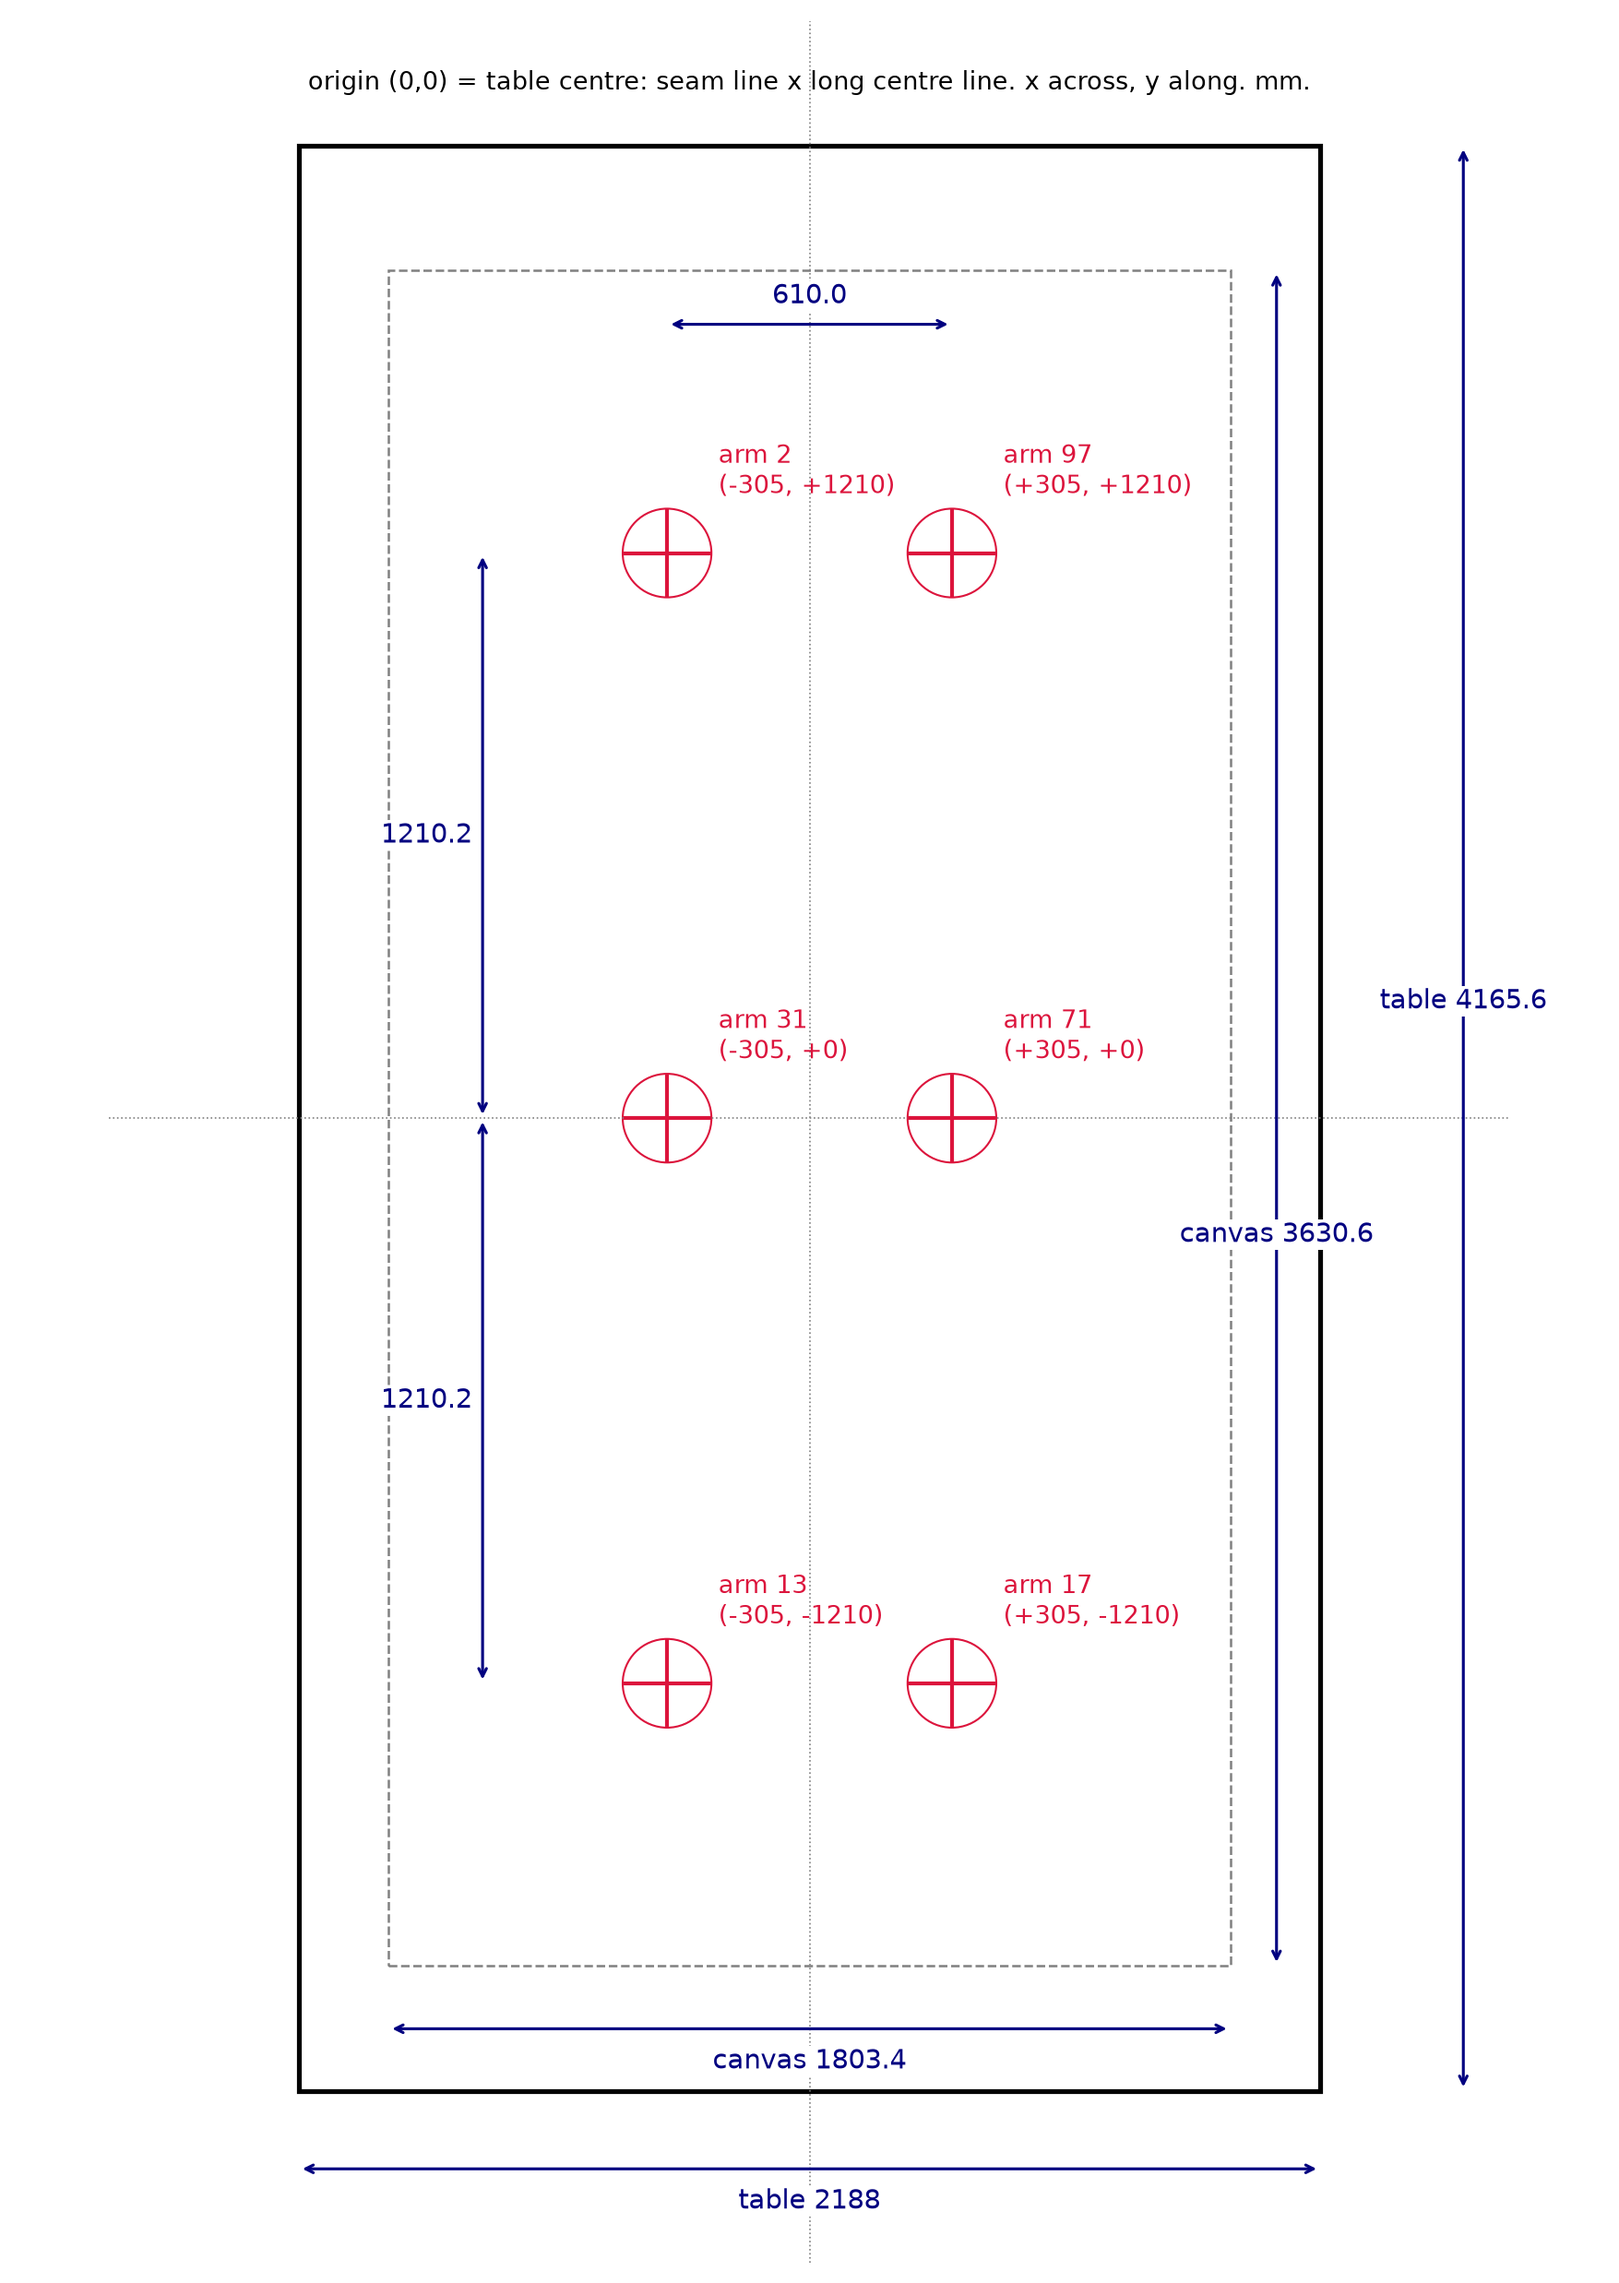
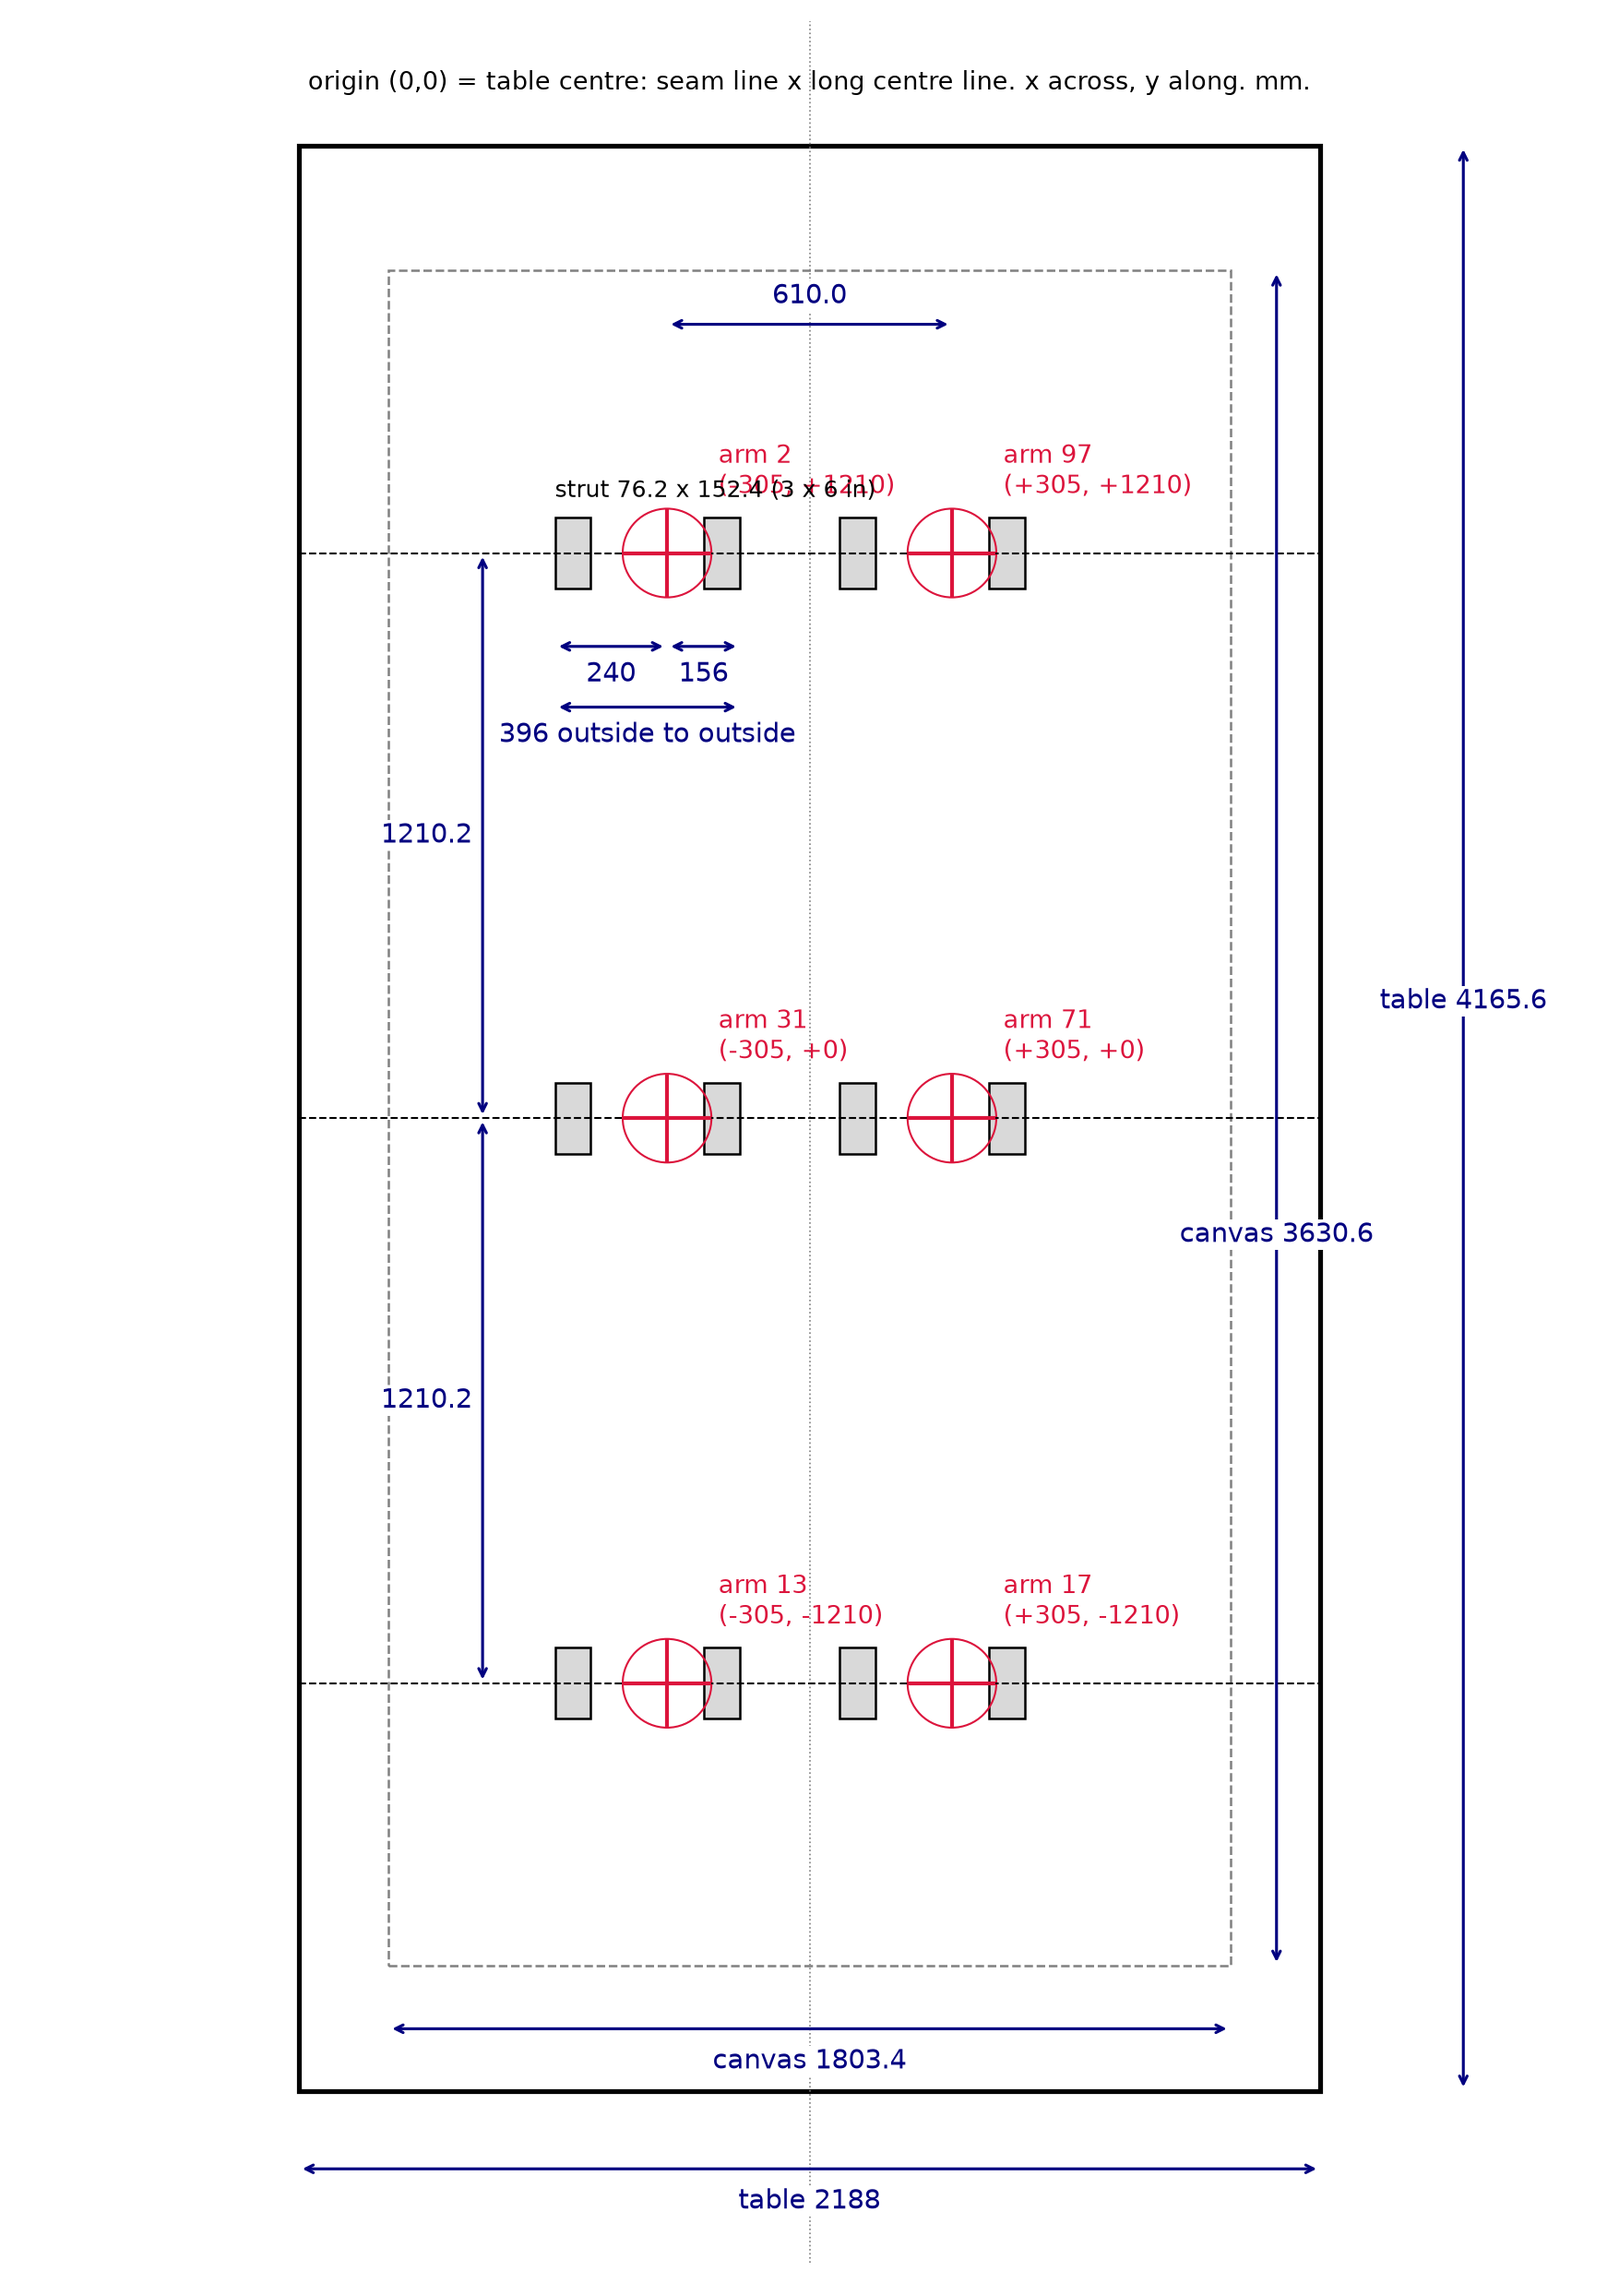
draw_axes_frame: row centrelines and the hanging struts from Pete's tape (240/156, 3x6 in)
Claude-Session: https://claude.ai/code/session_01TYL3Cueh7sskNU8Uz21h7x

diff --git a/scripts/draw_axes_frame.py b/scripts/draw_axes_frame.py
@@ -18,6 +18,8 @@ TABLE_W, TABLE_L = 2188.0, 4165.6
 CANVAS_W, CANVAS_L = 1803.4, 3630.6
 AX_X = (-305.0, 305.0)
 AX_Y = (-1210.2, 0.0, 1210.2)
+STRUT_X, STRUT_Y = 76.2, 152.4          # one hanging strut from above: 3 x 6 in
+STRUT_FAR, STRUT_NEAR = 240.0, 156.0     # Pete's tape 2026-09-16: outside face -> axis
 ARMS = {(-305.0, -1210.2): 13, (305.0, -1210.2): 17,
         (-305.0, 0.0): 31, (305.0, 0.0): 71,
         (-305.0, 1210.2): 2, (305.0, 1210.2): 97}
@@ -32,8 +34,16 @@ def main(out_dir="out/drawings"):
                            fill=False, lw=2.5, ec="black"))
     ax.add_patch(Rectangle((-CANVAS_W / 2, -CANVAS_L / 2), CANVAS_W, CANVAS_L,
                            fill=False, lw=1.2, ec="gray", ls="--"))
-    ax.axhline(0, color="gray", lw=0.8, ls=":")
     ax.axvline(0, color="gray", lw=0.8, ls=":")
+    # runway / strut centrelines: one per row, horizontal, dashed
+    for y in AX_Y:
+        ax.plot([-TABLE_W / 2, TABLE_W / 2], [y, y], color="black", lw=1.0, ls="--")
+    # hanging struts seen from above: 76.2 (x) x 152.4 (y) each = 3 x 6 in,
+    # placed from Pete's tape: outside face -> axis 240 on one side, 156 on the other
+    for (x, y), arm in ARMS.items():
+        for x0 in (x - STRUT_FAR, x + STRUT_NEAR - STRUT_X):
+            ax.add_patch(Rectangle((x0, y - STRUT_Y / 2), STRUT_X, STRUT_Y,
+                                   fill=True, fc="#d9d9d9", ec="black", lw=1.2))
     for (x, y), arm in ARMS.items():
         ax.plot([x - 90, x + 90], [y, y], color="crimson", lw=2)
         ax.plot([x, x], [y - 90, y + 90], color="crimson", lw=2)
@@ -48,6 +58,14 @@ def main(out_dir="out/drawings"):
                 fontsize=14, color="navy", ha="center", va="center",
                 bbox=dict(fc="white", ec="none", pad=1))
     dim(-305, 1700, 305, 1700, "610.0", off=(0, 60))
+    # one strut pair dimensioned (top-left arm): far / near / outer width
+    xa, ya = -305.0, 1210.2
+    dim(xa - STRUT_FAR, ya - 200, xa, ya - 200, f"{STRUT_FAR:.0f}", off=(0, -60))
+    dim(xa, ya - 200, xa + STRUT_NEAR, ya - 200, f"{STRUT_NEAR:.0f}", off=(0, -60))
+    dim(xa - STRUT_FAR, ya - 330, xa + STRUT_NEAR, ya - 330,
+        f"{STRUT_FAR + STRUT_NEAR:.0f} outside to outside", off=(0, -60))
+    ax.text(xa - STRUT_FAR, ya + 120, f"strut {STRUT_X} x {STRUT_Y} (3 x 6 in)",
+            fontsize=12, color="black")
     dim(-700, 0, -700, 1210.2, "1210.2", off=(-120, 0))
     dim(-700, -1210.2, -700, 0, "1210.2", off=(-120, 0))
     dim(-TABLE_W / 2, -2250, TABLE_W / 2, -2250, f"table {TABLE_W:.0f}", off=(0, -70))
